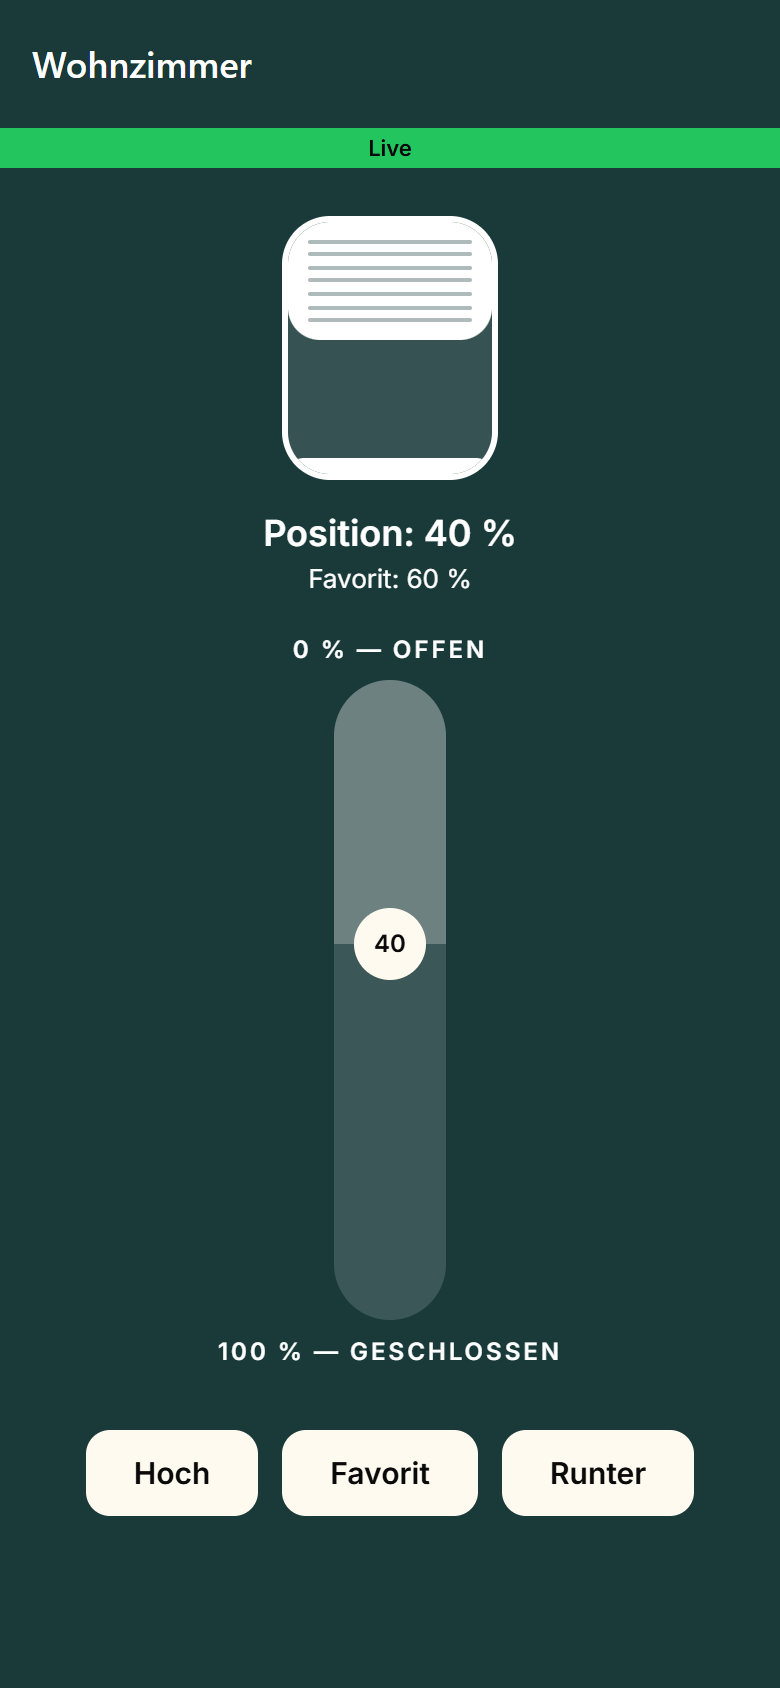
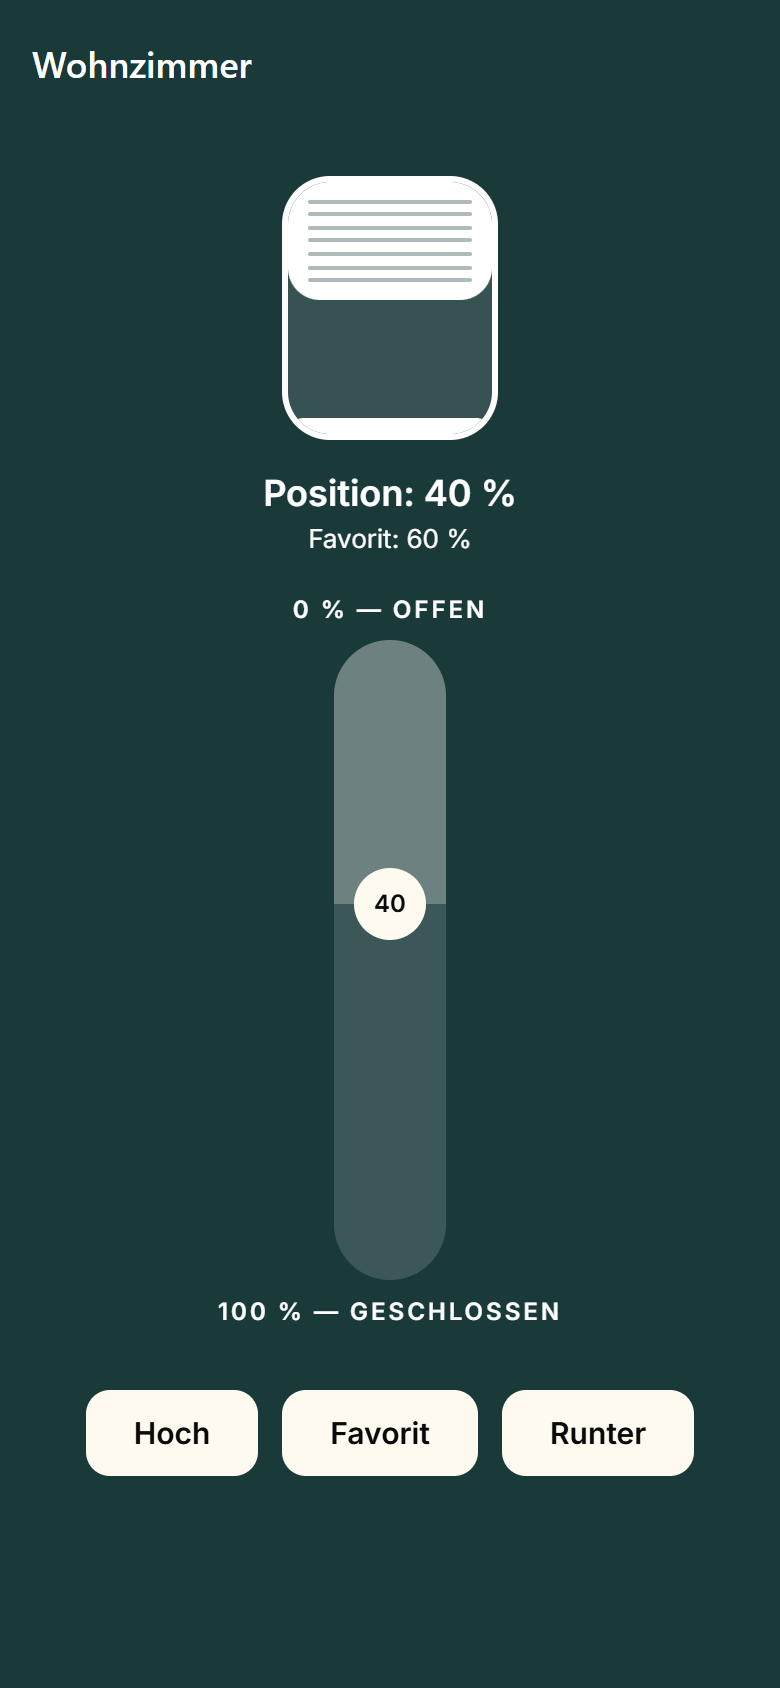
Detailansicht im Dark Mode auf dem Canvas mit der Rollo-Farbe als Akzent; Statusleiste nur noch bei Abweichungen

Changed region(s): [[0.0, 0.0616, 1.0, 0.4313], [0.0923, 0.7393, 0.8923, 0.9242], [0.4308, 0.4929, 0.5846, 0.5853]]

diff --git a/src/theme/index.ts b/src/theme/index.ts
@@ -67,7 +67,9 @@ export interface Theme {
   colors: ThemeColors;
   /** Rollo-Karten-Rotation; Index über shadeId % Länge (stabil bei Umsortierung). */
   cards: readonly CardStyle[];
-  status: Record<'connecting' | 'live' | 'polling' | 'offline', StatusStyle>;
+  // Nur Abweichungen vom Normalzustand. „live" trägt keine Information und
+  // bekommt deshalb keine Fläche — die Leiste bleibt dann ganz weg.
+  status: Record<'connecting' | 'polling' | 'offline', StatusStyle>;
 }
 
 const inkCard = (bg: string): CardStyle => ({
@@ -112,7 +114,6 @@ export const lightTheme: Theme = {
   // Ink auf den Semantikfarben — Weiß auf error wäre 3.15:1.
   status: {
     connecting: { bg: lightColors.surfaceStrong, fg: lightColors.body },
-    live: { bg: lightColors.success, fg: INK },
     polling: { bg: lightColors.warning, fg: INK },
     offline: { bg: lightColors.error, fg: INK },
   },
@@ -155,7 +156,6 @@ export const darkTheme: Theme = {
   ],
   status: {
     connecting: { bg: darkColors.surfaceStrong, fg: darkColors.body },
-    live: { bg: darkColors.success, fg: INK },
     polling: { bg: darkColors.warning, fg: INK },
     offline: { bg: darkColors.error, fg: INK },
   },
@@ -163,6 +163,25 @@ export const darkTheme: Theme = {
 
 export function cardStyleFor(theme: Theme, shadeId: number): CardStyle {
   return theme.cards[Math.abs(shadeId) % theme.cards.length];
+}
+
+// Detailansicht: Im Light Mode läuft der Screen vollflächig auf der Kartenfarbe.
+// Im Dark Mode wäre das ein Systembruch — die saturierte Fläche erschlägt den
+// warmen dunklen Canvas. Dort bleibt der Canvas stehen und die Rollo-Farbe wirkt
+// als Akzent (Grafik, Slider-Füllung, Überschrift, Buttons).
+export function detailStyleFor(theme: Theme, shadeId: number): CardStyle {
+  const card = cardStyleFor(theme, shadeId);
+  if (theme.mode === 'light') {
+    return card;
+  }
+  // Die zurückhaltende Dunkelkarte hebt sich als Akzent nicht ab — dort Creme.
+  const accent = card.bg === theme.colors.surfaceCard ? theme.colors.ink : card.bg;
+  return {
+    bg: theme.colors.canvas,
+    fg: accent,
+    buttonBg: accent,
+    buttonFg: theme.colors.onAction,
+  };
 }
 
 export const spacing = {

diff --git a/app/shade/[id].tsx b/app/shade/[id].tsx
@@ -7,7 +7,7 @@ import { ShadeGraphic } from '@/components/ShadeGraphic';
 import { hasFavorite, isMoving, ShadeType, TiltType } from '@/models/index';
 import { useAppStore } from '@/store/appStore';
 import { sendShadeCommand, sendShadeTarget } from '@/store/service';
-import { cardStyleFor, flat, font, radius, spacing, type } from '@/theme/index';
+import { detailStyleFor, flat, font, radius, spacing, type } from '@/theme/index';
 import { useTheme } from '@/theme/ThemeContext';
 
 export default function ShadeDetail() {
@@ -30,8 +30,9 @@ export default function ShadeDetail() {
     shade.shadeType === ShadeType.drycontact || shade.shadeType === ShadeType.drycontact2;
   // tiltonly hat keine Fahrposition → Positions-Slider ausblenden.
   const showSlider = !isDry && shade.tiltType !== TiltType.tiltonly;
-  // Die Karte „öffnet sich" zum Screen: Flächenfarbe = Kartenfarbe des Rollos.
-  const card = cardStyleFor(theme, shade.shadeId);
+  // Light: die Karte „öffnet sich" zum Screen (Fläche = Kartenfarbe).
+  // Dark: Canvas bleibt stehen, die Rollo-Farbe wirkt als Akzent.
+  const card = detailStyleFor(theme, shade.shadeId);
 
   const send = (command: Parameters<typeof sendShadeCommand>[1]) => {
     sendShadeCommand(shade.shadeId, command).catch(() => {});

diff --git a/src/theme/__tests__/contrast.test.ts b/src/theme/__tests__/contrast.test.ts
@@ -1,4 +1,4 @@
-import { brand, darkTheme, lightTheme, Theme } from '@/theme/index';
+import { brand, darkTheme, detailStyleFor, lightTheme, Theme } from '@/theme/index';
 
 // WCAG 2.x: relative Luminanz und Kontrastverhältnis.
 function channel(v: number): number {
@@ -62,6 +62,18 @@ describe.each([
     for (const status of Object.values(theme.status)) {
       expect(contrastRatio(status.fg, status.bg)).toBeGreaterThanOrEqual(AA);
     }
+  });
+
+  // Detailansicht: light vollflächig auf der Kartenfarbe, dark auf Canvas mit
+  // der Rollo-Farbe als Akzent. Beides muss über alle sechs Rotationsplätze tragen.
+  test.each([0, 1, 2, 3, 4, 5])('Detailansicht Rollo %i: Text auf Fläche', (shadeId) => {
+    const detail = detailStyleFor(theme, shadeId);
+    expect(contrastRatio(detail.fg, detail.bg)).toBeGreaterThanOrEqual(AA);
+  });
+
+  test.each([0, 1, 2, 3, 4, 5])('Detailansicht Rollo %i: Button-Label', (shadeId) => {
+    const detail = detailStyleFor(theme, shadeId);
+    expect(contrastRatio(detail.buttonFg, detail.buttonBg)).toBeGreaterThanOrEqual(AA);
   });
 });
 

diff --git a/src/components/ConnectionBar.tsx b/src/components/ConnectionBar.tsx
@@ -6,15 +6,18 @@ import { useTheme } from '@/theme/ThemeContext';
 
 const LABELS = {
   connecting: 'Verbinde…',
-  live: 'Live',
   polling: 'Abfrage alle 10 s (Socket getrennt)',
   offline: 'Offline',
 } as const;
 
-// Schmale Statusleiste unter dem Header.
+// Schmale Statusleiste unter dem Header — nur bei Abweichungen. Eine bestehende
+// Verbindung ist der Normalfall und braucht kein dauerhaftes Band.
 export function ConnectionBar() {
   const status = useAppStore((s) => s.connectionStatus);
   const theme = useTheme();
+  if (status === 'live') {
+    return null;
+  }
   const { bg, fg } = theme.status[status];
   return (
     <View style={[styles.bar, { backgroundColor: bg }]}>

diff --git a/README.md b/README.md
@@ -6,7 +6,7 @@ Mobile-App (Android, React Native/Expo) für [ESPSomfy-RTS](https://github.com/r
 
 ## Screenshots
 
-Die App folgt dem Systemthema; Hell und Dunkel teilen sich dieselben Markenfarben.
+Die App folgt dem Systemthema; Hell und Dunkel teilen sich dieselben Markenfarben. Im hellen Modus füllt die Farbe des Rollos die Detailansicht, im dunklen bleibt sie Akzent auf dunklem Grund.
 
 | Dashboard (hell) | Dashboard (dunkel) |
 |---|---|
